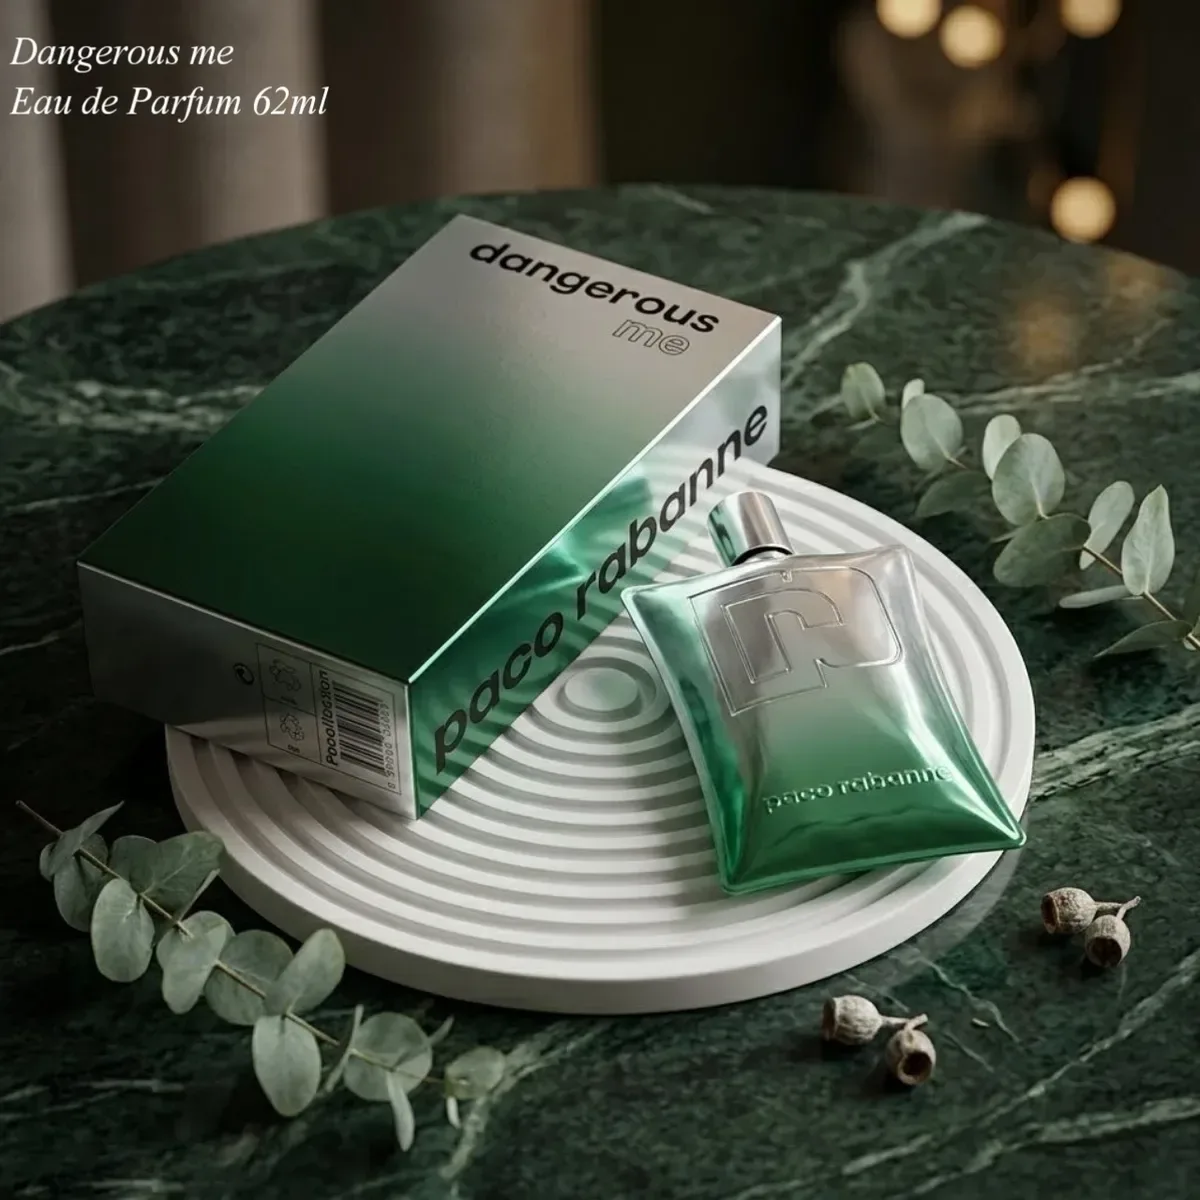
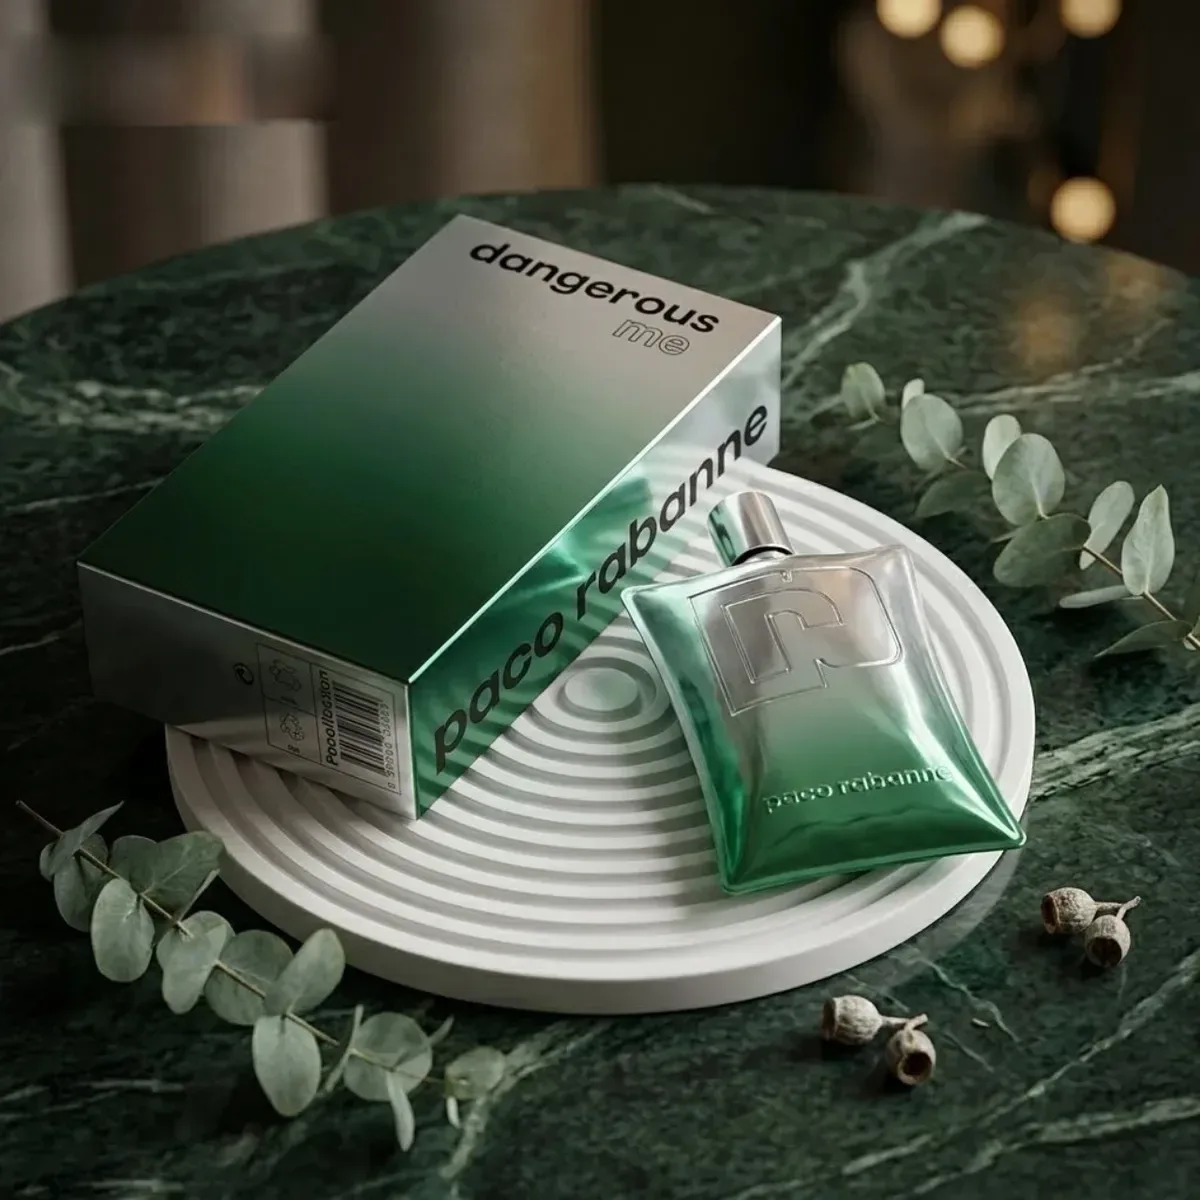
feat: remove the seller caption from 16 more product photos
These corners sat on a plain background, so the caption came off without touching the bottle or the box. Lana Bliss no longer quotes the overlay.

Changed region(s): [[0.0, 0.0308, 0.2775, 0.1233]]

diff --git a/data/products.ts b/data/products.ts
@@ -2386,7 +2386,7 @@ export const rawProducts: RawProduct[] = [
       gender: "unisex",
       cost: 0,
       images: ["/products/lana-bliss.webp"],
-      description: "Eau de parfum de 100 ml. El frasco y el texto de la foto dicen Camara Lana Bliss.",
+      description: "Eau de parfum de 100 ml. El frasco dice Camara Lana Bliss.",
       notes: {
         top: [],
         heart: [],
